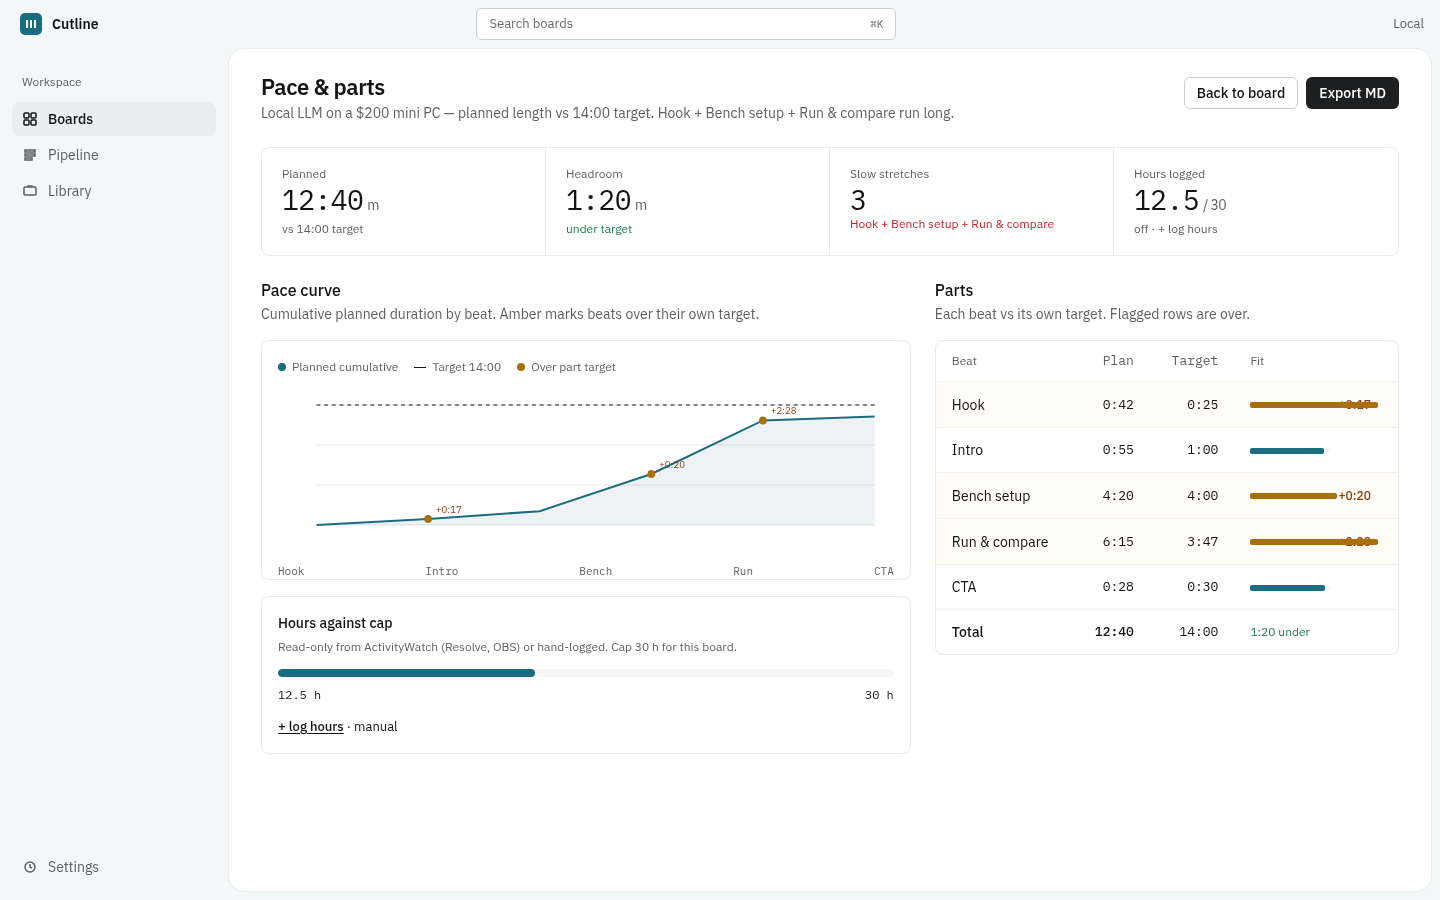
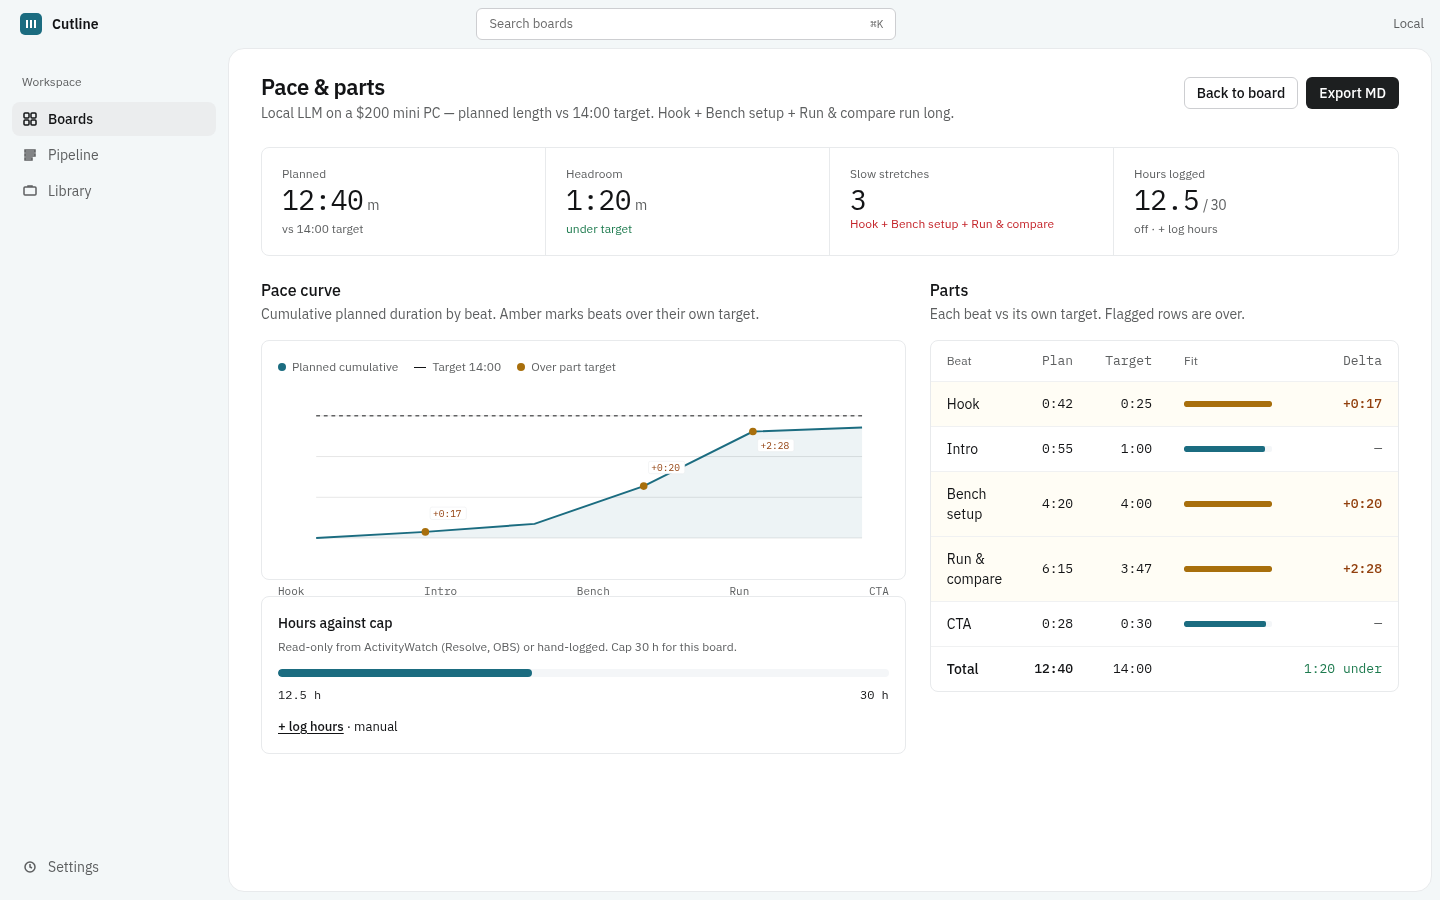
Fix canvas palette overlap, week label, zoom, pace deltas
Dock Beat/Note/Audience rail beside the canvas (not over cards);
restore $200 in audience promise; de-dupe Week label; roomier − 100% +
zoom; Parts Delta column + curve labels clear of the line. Screenshots
refreshed under screenshots/ and docs/screenshots/; README embeds.

diff --git a/public/js/app.js b/public/js/app.js
@@ -26,6 +26,13 @@ const MARK_SVG = `<svg width="14" height="14" viewBox="0 0 14 14"><path d="M2 3h
 function $(sel, el = document) { return el.querySelector(sel); }
 function $$(sel, el = document) { return [...el.querySelectorAll(sel)]; }
 
+function formatWeek(w) {
+  if (!w) return '';
+  const s = String(w).trim();
+  if (/^week\b/i.test(s)) return s;
+  return 'Week ' + s;
+}
+
 function fmt(sec) {
   const s = Math.max(0, Math.round(Number(sec) || 0));
   const m = Math.floor(s / 60);
@@ -293,7 +300,7 @@ function renderBoard() {
       <button class="btn btn-ghost" data-act="back-boards" style="padding:0 6px">←</button>
       <input class="title-edit" id="board-title" value="${escapeHtml(board.title)}" />
       ${stagePill(board.status)}
-      <span class="meta" id="board-week">${escapeHtml(board.meta?.targetWeek ? 'Week ' + board.meta.targetWeek : '')}</span>
+      <span class="meta" id="board-week">${escapeHtml(formatWeek(board.meta?.targetWeek))}</span>
       <div class="actions">
         <span class="meta mono">${fmt(pacing.totalPlannedSec)} / ${fmt(board.targetRuntimeSec)}</span>
         <button class="btn btn-secondary" data-act="open-pace">Pace</button>
@@ -303,20 +310,20 @@ function renderBoard() {
     </div>
     <div class="workspace">
       <aside class="palette" id="clip-palette">${renderPalette()}</aside>
+      <div class="tool-rail" aria-label="Add to canvas">
+        <button type="button" data-add="beat" title="Add beat">Beat</button>
+        <button type="button" data-add="note" title="Add note">Note</button>
+        <button type="button" data-add="audience" title="Add audience">Audience</button>
+      </div>
       <section class="canvas-panel" id="canvas-panel" aria-label="Board canvas">
-        <div class="tool-rail">
-          <button type="button" data-add="beat" title="Add beat">Beat</button>
-          <button type="button" data-add="note" title="Add note">Note</button>
-          <button type="button" data-add="audience" title="Audience">Aud</button>
-        </div>
         <div class="canvas-world" id="canvas-world" style="transform:translate(${state.pan.x}px,${state.pan.y}px) scale(${state.zoom})">
           <svg class="wires" id="wires"></svg>
           ${b.cards.map(renderCard).join('')}
         </div>
-        <div class="canvas-tools">
-          <button type="button" data-zoom="-">−</button>
-          <button type="button" data-zoom="reset">${Math.round(state.zoom * 100)}%</button>
-          <button type="button" data-zoom="+">+</button>
+        <div class="canvas-tools" role="group" aria-label="Zoom">
+          <button type="button" data-zoom="-" aria-label="Zoom out">−</button>
+          <button type="button" class="zoom-pct" data-zoom="reset" aria-label="Reset zoom">${Math.round(state.zoom * 100)}%</button>
+          <button type="button" data-zoom="+" aria-label="Zoom in">+</button>
         </div>
       </section>
     </div>
@@ -378,7 +385,7 @@ function renderCard(c) {
       <dl class="kv">
         <dt>Persona</dt><dd contenteditable="true" data-aud="persona">${escapeHtml(a.persona || a.who || '')}</dd>
         <dt>Already knows</dt><dd contenteditable="true" data-aud="alreadyKnow">${escapeHtml(a.alreadyKnow || '')}</dd>
-        <dt>Hook promise</dt><dd contenteditable="true" data-aud="promise">${escapeHtml(a.promise || '')}</dd>
+        <dt>Hook promise</dt><dd class="wrap" contenteditable="true" data-aud="promise">${escapeHtml(a.promise || '')}</dd>
       </dl>
     </article>`;
   }
@@ -566,7 +573,7 @@ function renderPace() {
   const hoursOn = hoursTotal > 0 || hours?.activityWatch?.ok;
 
   const maxCum = Math.max(pacing.targetRuntimeSec || 1, pacing.totalPlannedSec || 1, 1);
-  const chartW = 640; const chartH = 160; const padL = 40; const padR = 20; const padT = 20; const padB = 20;
+  const chartW = 640; const chartH = 180; const padL = 40; const padR = 28; const padT = 28; const padB = 24;
   const plotH = chartH - padT - padB;
   const n = Math.max(parts.length, 1);
   const pts = [];
@@ -612,7 +619,7 @@ function renderPace() {
               <span><i class="dot" style="background:var(--text);width:12px;height:1px;border-radius:0;vertical-align:middle;display:inline-block"></i>Target ${fmt(b.board.targetRuntimeSec)}</span>
               <span><i class="dot" style="background:var(--chart-3)"></i>Over part target</span>
             </div>
-            <svg viewBox="0 0 ${chartW} ${chartH}" preserveAspectRatio="none" style="width:100%;height:160px;display:block">
+            <svg viewBox="0 0 ${chartW} ${chartH}" preserveAspectRatio="xMidYMid meet" style="width:100%;height:180px;display:block">
               <line x1="${padL}" y1="${padT}" x2="${chartW - padR}" y2="${padT}" stroke="var(--grid)"/>
               <line x1="${padL}" y1="${padT + plotH / 3}" x2="${chartW - padR}" y2="${padT + plotH / 3}" stroke="var(--grid)"/>
               <line x1="${padL}" y1="${padT + 2 * plotH / 3}" x2="${chartW - padR}" y2="${padT + 2 * plotH / 3}" stroke="var(--grid)"/>
@@ -620,10 +627,15 @@ function renderPace() {
               <line x1="${padL}" y1="${targetY}" x2="${chartW - padR}" y2="${targetY}" stroke="var(--text)" stroke-dasharray="4 4"/>
               <path d="${area}" fill="var(--chart-1)" opacity="0.08"/>
               <polyline points="${poly}" fill="none" stroke="var(--chart-1)" stroke-width="2"/>
-              ${pts.filter((p) => p.slow).map((p) => `
+              ${pts.filter((p) => p.slow).map((p) => {
+                const above = p.y >= padT + 22;
+                const labelY = above ? p.y - 16 : p.y + 18;
+                const labelX = Math.min(chartW - padR - 36, Math.max(padL, p.x + 8));
+                return `
                 <circle cx="${p.x}" cy="${p.y}" r="4" fill="var(--chart-3)"/>
-                <text x="${p.x + 8}" y="${p.y - 6}" font-size="10" fill="var(--warning)" font-family="IBM Plex Sans, sans-serif">${fmtSigned(p.overBy)}</text>
-              `).join('')}
+                <rect x="${labelX - 3}" y="${labelY - 10}" width="38" height="13" rx="2" fill="#ffffff" stroke="var(--border)" stroke-width="0.5"/>
+                <text x="${labelX}" y="${labelY}" font-size="10" fill="var(--warning)" font-family="IBM Plex Mono, monospace">${fmtSigned(p.overBy)}</text>`;
+              }).join('')}
             </svg>
             <div class="plan-labels" style="font-size:11px;color:var(--muted)">
               ${parts.map((p) => `<span>${escapeHtml((p.label || '').split(' ')[0] || '·')}</span>`).join('')}
@@ -650,22 +662,25 @@ function renderPace() {
           <p class="muted" style="font-size:14px;margin:4px 0 16px">Each beat vs its own target. Flagged rows are over.</p>
           <div class="parts">
             <table>
-              <thead><tr><th>Beat</th><th class="num">Plan</th><th class="num">Target</th><th>Fit</th></tr></thead>
+              <thead><tr><th>Beat</th><th class="num">Plan</th><th class="num">Target</th><th>Fit</th><th class="num">Delta</th></tr></thead>
               <tbody>
                 ${parts.map((p) => {
-                  const ratio = p.targetSec ? Math.min(160, (p.plannedSec / p.targetSec) * 100) : 0;
+                  const ratio = p.targetSec ? Math.min(100, (p.plannedSec / p.targetSec) * 100) : 0;
+                  const delta = p.slow ? fmtSigned(p.overBy) : (p.targetSec != null ? '—' : '—');
                   return `<tr class="${p.slow ? 'flag' : ''}">
                     <td>${escapeHtml(p.label)}</td>
                     <td class="num">${fmt(p.plannedSec)}</td>
                     <td class="num">${p.targetSec != null ? fmt(p.targetSec) : '—'}</td>
-                    <td><span class="bullet"><i style="width:${ratio}%;${p.slow ? 'background:var(--chart-3)' : ''}"></i></span>${p.slow ? `<span style="color:var(--warning);font-size:12px;font-weight:500">${fmtSigned(p.overBy)}</span>` : ''}</td>
+                    <td class="fit-cell"><span class="bullet"><i style="width:${ratio}%;${p.slow ? 'background:var(--chart-3)' : ''}"></i></span></td>
+                    <td class="num delta-cell ${p.slow ? 'over' : ''}">${p.slow ? delta : '—'}</td>
                   </tr>`;
                 }).join('')}
                 <tr>
                   <td style="font-weight:500">Total</td>
                   <td class="num" style="font-weight:500">${fmt(pacing.totalPlannedSec)}</td>
                   <td class="num">${fmt(b.board.targetRuntimeSec)}</td>
-                  <td style="color:var(--positive);font-size:12px">${headroom >= 0 ? fmt(headroom) + ' under' : fmtSigned(-headroom) + ' over'}</td>
+                  <td class="fit-cell"></td>
+                  <td class="num delta-cell ${headroom >= 0 ? 'under' : 'over'}">${headroom >= 0 ? fmt(headroom) + ' under' : fmtSigned(-headroom) + ' over'}</td>
                 </tr>
               </tbody>
             </table>

diff --git a/public/css/app.css b/public/css/app.css
@@ -143,8 +143,9 @@ textarea.input { height: auto; padding: 8px 10px; resize: vertical; }
 .board-bar .meta { color: var(--muted); font-size: 12px; }
 .board-bar .actions { margin-left: auto; display: flex; align-items: center; gap: 8px; }
 .workspace {
-  display: grid; grid-template-columns: 232px 1fr; gap: 12px;
+  display: grid; grid-template-columns: 232px auto 1fr; gap: 14px;
   padding: 12px; background: var(--ground); min-height: 0;
+  align-items: start;
 }
 .palette, .canvas-panel {
   background: var(--surface); border: 1px solid var(--border);
@@ -187,7 +188,8 @@ textarea.input { height: auto; padding: 8px 10px; resize: vertical; }
 .card h3, .card .card-title { font-size: 14px; font-weight: 600; margin-bottom: 8px; outline: none; }
 .card .kv { display: grid; grid-template-columns: 88px 1fr; gap: 6px 8px; font-size: 12px; }
 .card .kv dt { color: var(--muted); }
-.card .kv dd { color: var(--text); outline: none; min-height: 1.2em; }
+.card .kv dd { color: var(--text); outline: none; min-height: 1.2em; overflow-wrap: anywhere; word-break: break-word; white-space: normal; }
+.card .kv dd.wrap { white-space: normal; overflow-wrap: anywhere; }
 .card.beat { width: 200px; padding: 12px; }
 .card .dur { font-family: var(--mono); font-size: 12px; color: var(--muted); }
 .card .fit { font-size: 11px; margin-top: 8px; }
@@ -198,22 +200,30 @@ textarea.input { height: auto; padding: 8px 10px; resize: vertical; }
 .wires { position: absolute; inset: 0; width: 4000px; height: 4000px; pointer-events: none; overflow: visible; }
 .wires path { fill: none; stroke: var(--accent); stroke-width: 1.5; opacity: 0.55; }
 .canvas-tools {
-  position: absolute; right: 12px; bottom: 12px; display: flex; gap: 4px;
-  background: var(--surface); border: 1px solid var(--border); border-radius: 6px; padding: 4px; z-index: 2;
+  position: absolute; right: 12px; bottom: 12px; display: flex; align-items: center; gap: 6px;
+  background: var(--surface); border: 1px solid var(--border); border-radius: 8px; padding: 4px 8px; z-index: 3;
 }
 .canvas-tools button {
-  width: 28px; height: 28px; border: 0; background: transparent; border-radius: 4px;
-  color: var(--muted); font-size: 14px; cursor: pointer;
+  min-width: 28px; height: 28px; border: 0; background: transparent; border-radius: 4px;
+  color: var(--muted); font-size: 18px; line-height: 1; cursor: pointer;
+  font-family: var(--font); padding: 0 8px;
+}
+.canvas-tools button.zoom-pct {
+  min-width: 52px; font-size: 12px; font-family: var(--mono); font-variant-numeric: tabular-nums;
+  color: var(--text); letter-spacing: 0.02em; padding: 0 4px;
 }
 .canvas-tools button:hover { background: var(--raised); color: var(--text); }
 .tool-rail {
-  position: absolute; left: 12px; top: 12px; display: flex; flex-direction: column; gap: 4px;
-  background: var(--surface); border: 1px solid var(--border); border-radius: 6px; padding: 4px; z-index: 2;
+  position: sticky; top: 12px; display: flex; flex-direction: column; gap: 2px;
+  background: var(--surface); border: 1px solid var(--border); border-radius: 8px; padding: 4px;
+  align-self: start; z-index: 1;
 }
 .tool-rail button {
-  width: 32px; height: 28px; border: 0; background: transparent; border-radius: 4px;
-  color: var(--muted); font-size: 11px; cursor: pointer;
+  min-width: 84px; height: 28px; border: 0; background: transparent; border-radius: 6px;
+  color: var(--muted); font-size: 12px; font-weight: 500; cursor: pointer;
+  padding: 0 10px; text-align: left; white-space: nowrap;
 }
+.tool-rail button:hover { background: var(--raised); color: var(--text); }
 .tool-rail button.active { color: var(--accent); background: #e8f3f6; }
 
 .timeline {
@@ -277,10 +287,14 @@ textarea.input { height: auto; padding: 8px 10px; resize: vertical; }
 .parts td { padding: 12px 16px; border-top: 1px solid var(--rule); }
 .parts tr.flag td { background: #fffdf5; }
 .parts .bullet {
-  display: inline-block; width: 80px; height: 6px; background: var(--raised); border-radius: 2px;
-  position: relative; vertical-align: middle; margin-right: 8px;
+  display: block; width: 88px; height: 6px; background: var(--raised); border-radius: 2px;
+  position: relative; overflow: hidden;
 }
-.parts .bullet i { position: absolute; left: 0; top: 0; bottom: 0; background: var(--chart-1); border-radius: 2px; }
+.parts .bullet i { position: absolute; left: 0; top: 0; bottom: 0; background: var(--chart-1); border-radius: 2px; max-width: 100%; }
+.parts .fit-cell { white-space: nowrap; }
+.parts .delta-cell { font-family: var(--mono); font-size: 12px; color: var(--muted); white-space: nowrap; }
+.parts .delta-cell.over { color: var(--warning); font-weight: 500; }
+.parts .delta-cell.under { color: var(--positive); }
 
 /* Notion / settings */
 .cols { display: grid; grid-template-columns: 1fr 1fr; gap: 20px; flex: 1; min-height: 0; }

diff --git a/README.md b/README.md
@@ -6,6 +6,27 @@ Infinite canvas for beats, notes, clips, references, and audience cards; Notion 
 
 > Working name **Cutline** (rename in `public/js/brand.js`). Framed-sheet UI; tokens in `public/css/tokens.css` (dark-mode ready, light-only in v1).
 
+## Screenshots
+
+Non-personal demo board (local seed data only — not shipped as product defaults).
+
+![Canvas — beats, audience, clips, timeline](docs/screenshots/canvas.png)
+
+*Canvas — board canvas with clips, audience card, beat graph, timeline and hours meter.*
+
+![Pace & parts — curve and table](docs/screenshots/pace-parts.png)
+
+*Pace & parts — cumulative pace curve, hours against cap, and per-beat plan vs target.*
+
+![Notion mapping — confirm-only](docs/screenshots/notion-mapping.png)
+
+*Notion — pre-filled field mapping and side-by-side conflict (Keep local / Keep Notion / Edit).*
+
+![First-run empty state](docs/screenshots/first-run.png)
+
+*First-run — empty boards with setup steps and muted hours meter.*
+
+
 ## Requirements (Arch)
 
 - Node.js 20+
